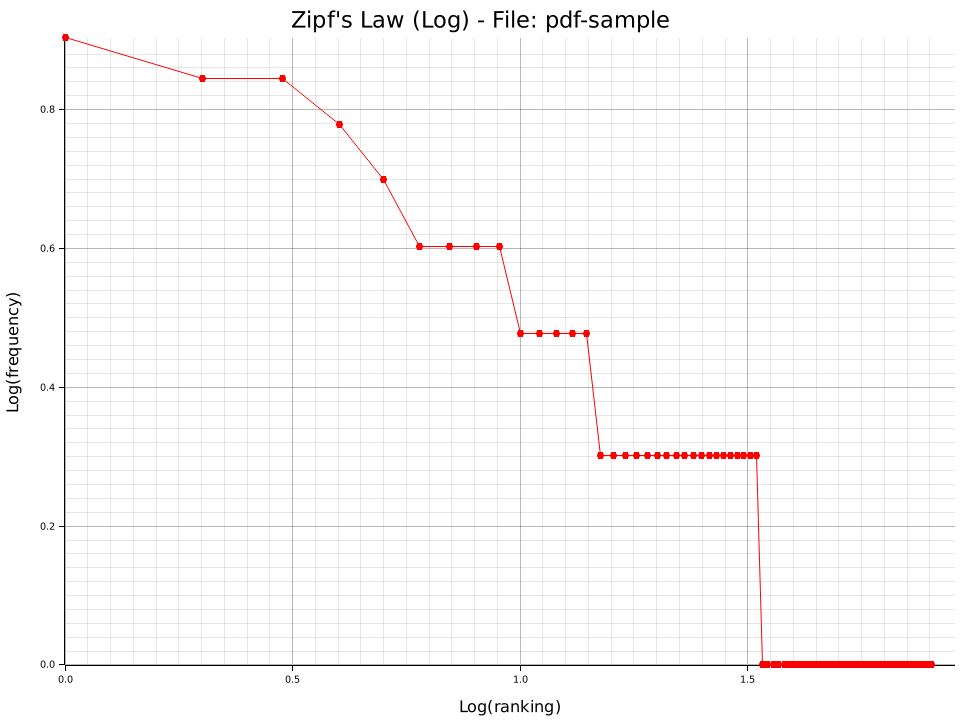
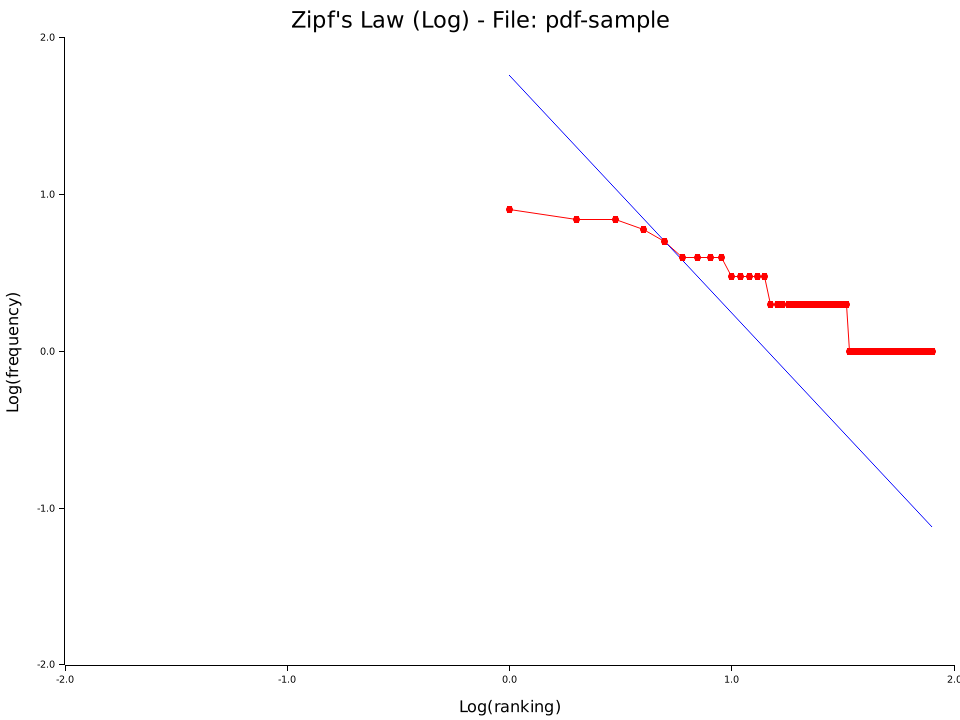
feat: added fn generate .png images of plotted zipf's law (Log 10 applied),  polyfitted linear plot added

diff --git a/src/modules/plot_handlers.rs b/src/modules/plot_handlers.rs
@@ -4,29 +4,46 @@ use plotters::{
     chart::ChartBuilder,
     prelude::{BitMapBackend, Circle, EmptyElement, IntoDrawingArea},
     series::{LineSeries, PointSeries},
-    style::{IntoFont, RED, WHITE},
+    style::{BLUE, RED, WHITE},
 };
 
-pub fn scatter_plot(tuple: Vec<(f64, f64)>, file_name: &str) -> Result<(), Error> {
+pub fn scatter_plot(
+    tuple: Vec<(f64, f64)>,
+    file_name: &str,
+    lr_parameters: &Vec<f64>,
+) -> Result<(), Error> {
     let image_extension: &str = "png";
     let plot_path = format!("books-plot/{}.{}", file_name, image_extension);
     let plot_title = format!("Zipf's Law (Log) - File: {}", file_name);
+
+    let (x_limit_last, _) = &tuple[tuple.len() - 1];
+    let (x_last, y_limit_first) = &tuple[0];
+    // Linear Regression alpha y beta
+    let beta = &lr_parameters[0];
+    let alpha = &lr_parameters[1];
+    let xFirst = (*y_limit_first - beta) / alpha;
+    let xLast = (0f64 - beta) / alpha;
+    // Linear Regression points
+    let polyfit_point_one = (xFirst, *y_limit_first);
+    let polyfit_point_two = (xLast, 0f64);
+    println!("{:?} | {:?}", polyfit_point_one, polyfit_point_two);
+
     let root = BitMapBackend::new(&plot_path, (960, 720)).into_drawing_area();
     root.fill(&WHITE).unwrap();
     let root = root.margin(5, 5, 5, 5);
 
-    let (x_limit, _) = &tuple[tuple.len() - 1];
-    let (_, y_limit) = &tuple[0];
     println!("{:?}", tuple);
     let mut chart = ChartBuilder::on(&root)
         .caption(plot_title, ("sans-serif", 28))
         .x_label_area_size(50)
         .y_label_area_size(60)
-        .build_cartesian_2d(0f64..*x_limit + 0.05, 0f64..*y_limit)
+        .build_cartesian_2d(0f64..*x_limit_last + 0.05, 0f64..*y_limit_first)
         .unwrap();
 
     chart
         .configure_mesh()
+        .disable_x_mesh()
+        .disable_y_mesh()
         .x_labels(5)
         .y_labels(5)
         .x_desc("Log(ranking)")
@@ -37,6 +54,14 @@ pub fn scatter_plot(tuple: Vec<(f64, f64)>, file_name: &str) -> Result<(), Error
 
     chart
         .draw_series(LineSeries::new(tuple.iter().map(|&p| p), &RED))
+        .unwrap()
+        .label("label 1");
+
+    chart
+        .draw_series(LineSeries::new(
+            vec![polyfit_point_one, polyfit_point_two],
+            &BLUE,
+        ))
         .unwrap();
 
     chart

diff --git a/src/main.rs b/src/main.rs
@@ -100,5 +100,5 @@ fn main() {
 
     file_path_input = format!("{}", file_path_input.trim());
     let (file_name, _) = file_path_input.split_once(".").unwrap();
-    scatter_plot(tuple_to_plot, file_name).unwrap();
+    scatter_plot(tuple_to_plot, file_name, &parameters).unwrap();
 }
